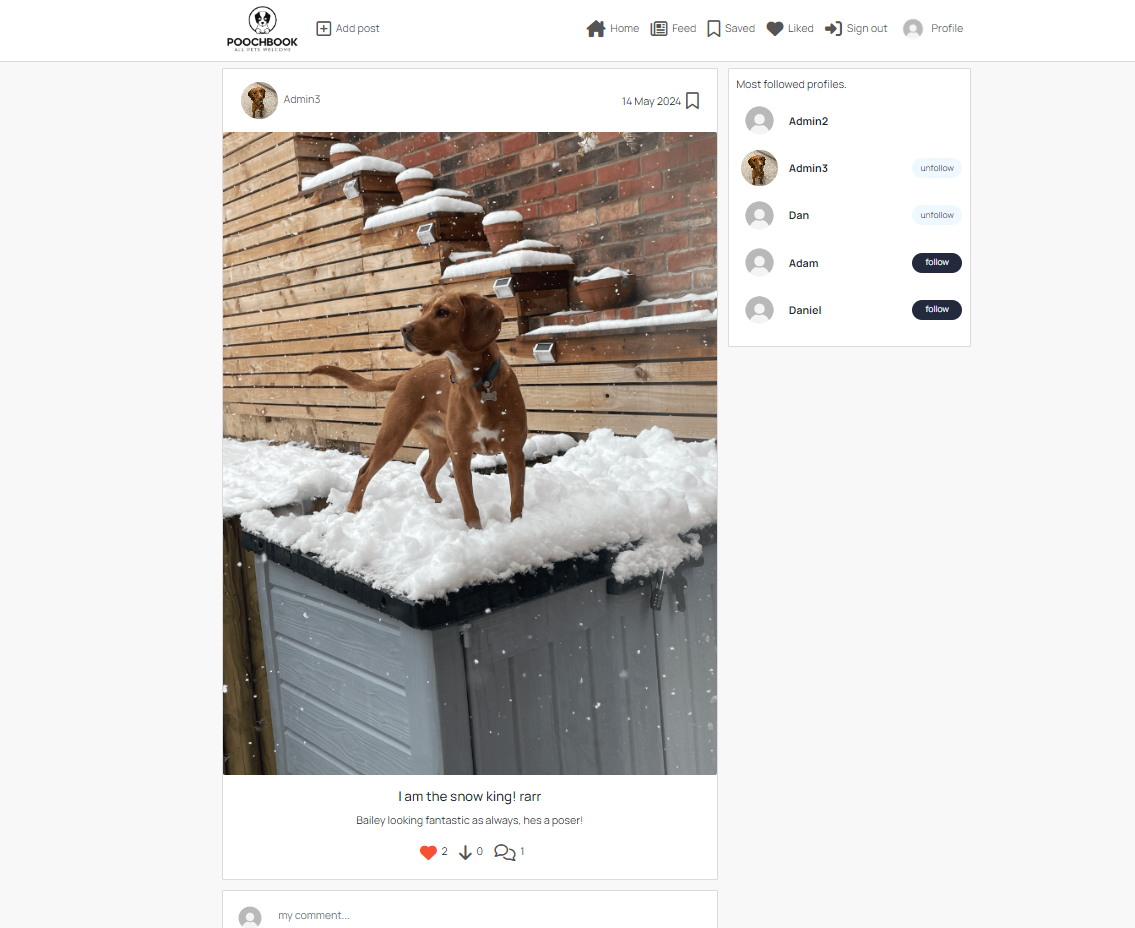
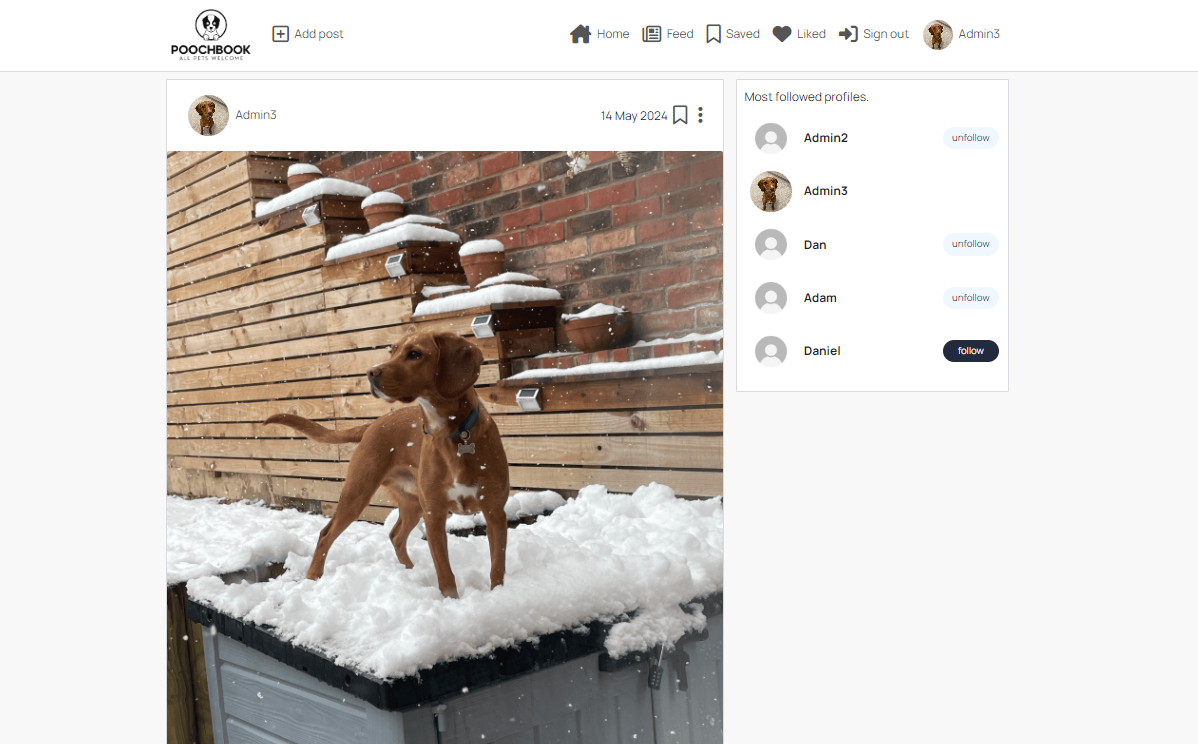
Add postpage new screenshots

diff --git a/README.md b/README.md
@@ -204,7 +204,10 @@ The home screen and landing page, with the "recommended users to follow" sidebar
 ### **Post Page**
 
 - The post's page, with the recommended user to follow sidebar.
-- Heart and down arrow buttons to like and downvote any posts you wish. Each icon goes a solid colour once a user has clicked on it
+- Heart and down arrow buttons to like and downvote any posts you wish. Each icon goes a solid colour once a user has clicked on it, these icons will also undo if clicked again.
+- On the top right of the post beside the date posted, you have a bookmark icon to save this post, which later you can view in the "Saved" section from the NavBar. If you save a post, it will be indicated by the "bookmark" icon, which goes a solid colour once it's clicked, if clicked again, this will undo the action of saving the post.
+- 
+
 
 ![screenshot](documentation/features/post-page-top.png)
 ![screenshot](documentation/features/post-page-bottom.png)
